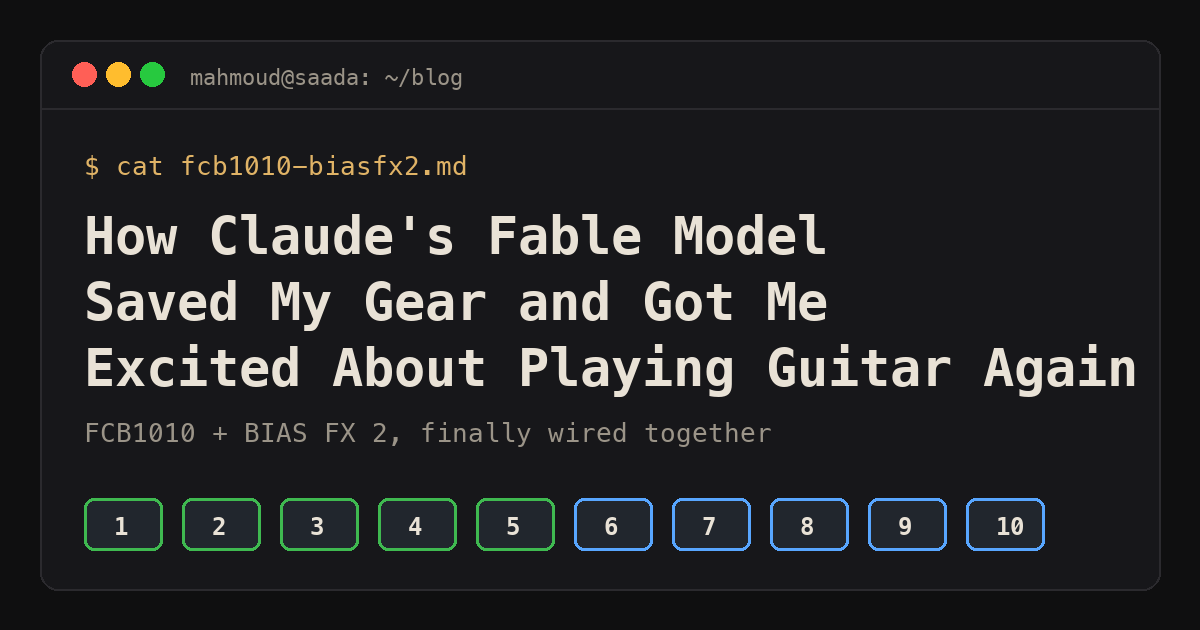
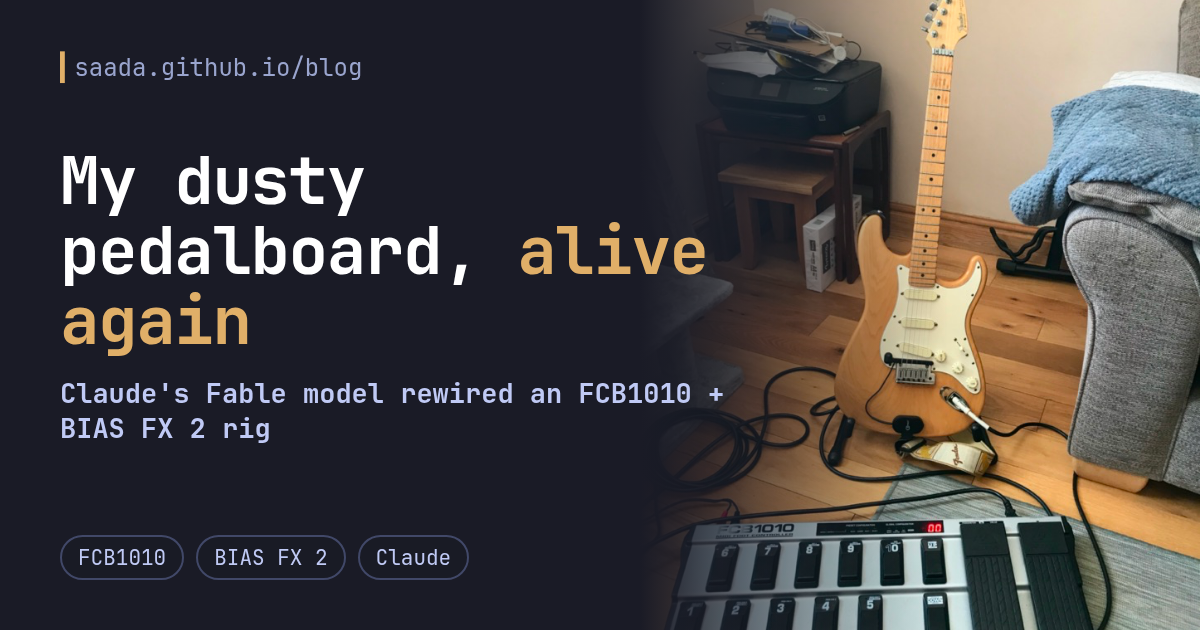
Link cards for every post: one template, bun run cards, enforced in CI
- scripts/og-cards.ts + og-card.html: each blog/<slug>/card.json renders a 1200x630
  og-card.png (bold headline + the post's own photo/screenshot, Tokyo Night) with local
  Chromium, and stamps og:image / twitter:image with ?v=<hash> on the post and its
  sub-pages (lab/), so X refetches instead of serving a cached card.
- Cards: "My dusty pedalboard, alive again" (the Strat over the FCB1010) for the
  first post; "A free guitar rig for Omarchy" (the real GuitarMood board, RHYTHM lit)
  for part two.
- `bun run cards:check` runs before the build in CI: every post needs card.json, a
  current 1200x630 card and the full og/twitter tag set, or the deploy stops.
- README: how to add a card for a new post.

Claude-Session: https://claude.ai/code/session_012TKPMMo4XzZnfbupbKYXAR

diff --git a/scripts/og-cards.ts b/scripts/og-cards.ts
@@ -1,0 +1,135 @@
+// Link cards (og:image / twitter:image) for every post under blog/.
+//
+//   bun run cards         render blog/<slug>/images/og-card.png from blog/<slug>/card.json
+//                         (needs a local Chromium) and stamp ?v=<hash> into the post's meta
+//   bun run cards:check   CI: every post has a card.json, a 1200x630 card, the full set of
+//                         og/twitter tags, and meta that points at the current card
+//
+// card.json:
+//   { "headline": "GuitarMood: a free guitar rig for <em>Omarchy</em>",
+//     "kicker": "FCB1010 · TONE3000 · Qtractor", "tags": ["Omarchy", "Open source"],
+//     "image": "images/guitarmood/full.jpg", "focus": "20% 30%",
+//     "accent": "#7aa2f7", "imageWidth": 640, "headlinePx": 64, "fade": 55, "brightness": 1 }
+
+import { createHash } from "node:crypto";
+import { existsSync, mkdtempSync, readdirSync, readFileSync, writeFileSync } from "node:fs";
+import { tmpdir } from "node:os";
+import { join, resolve } from "node:path";
+import { spawnSync } from "node:child_process";
+
+const ROOT = resolve(import.meta.dir ?? join(import.meta.dirname, ""), "..");
+const BLOG = join(ROOT, "blog");
+const SITE = "https://saada.github.io";
+const W = 1200, H = 630;
+
+type Card = {
+  headline: string; kicker?: string; tags?: string[]; image: string;
+  focus?: string; accent?: string; imageWidth?: number; headlinePx?: number;
+  fade?: number; brightness?: number;  // fade: % of the picture that blends into the text side
+};
+
+const REQUIRED = [
+  "og:title", "og:description", "og:image", "og:image:width", "og:image:height", "og:image:alt",
+  "twitter:card", "twitter:title", "twitter:description", "twitter:image", "twitter:image:alt",
+];
+
+const posts = () => readdirSync(BLOG, { withFileTypes: true })
+  .filter((d) => d.isDirectory() && existsSync(join(BLOG, d.name, "index.html")))
+  .map((d) => d.name);
+
+const escape = (s: string) => s.replace(/&/g, "&amp;").replace(/</g, "&lt;").replace(/>/g, "&gt;");
+// Headlines may use <em> for the accent colour; nothing else is let through.
+const headline = (s: string) => escape(s).replace(/&lt;(\/?)em&gt;/g, "<$1em>");
+
+function pngSize(file: string): [number, number] {
+  const b = readFileSync(file);
+  if (b.toString("ascii", 1, 4) !== "PNG") return [0, 0];
+  return [b.readUInt32BE(16), b.readUInt32BE(20)];
+}
+
+const hash = (file: string) => createHash("sha256").update(readFileSync(file)).digest("hex").slice(0, 10);
+const meta = (html: string, key: string) =>
+  html.match(new RegExp(`<meta[^>]+(?:name|property)="${key.replace(/:/g, ":")}"[^>]*content="([^"]*)"`))?.[1];
+
+function render(slug: string) {
+  const dir = join(BLOG, slug);
+  const card: Card = JSON.parse(readFileSync(join(dir, "card.json"), "utf8"));
+  const imageWidth = card.imageWidth ?? 620;
+  const page = readFileSync(join(ROOT, "scripts/og-card.html"), "utf8")
+    .replaceAll("{{ACCENT}}", card.accent ?? "#7aa2f7")
+    .replaceAll("{{IMAGE}}", "file://" + join(dir, card.image))
+    .replaceAll("{{FOCUS}}", card.focus ?? "center")
+    .replaceAll("{{FADE}}", String(card.fade ?? 55))
+    .replaceAll("{{BRIGHTNESS}}", String(card.brightness ?? 1))
+    .replaceAll("{{IMAGE_WIDTH}}", String(imageWidth))
+    // A long fade leaves room for text over the picture; a short one needs its own column.
+    .replaceAll("{{TEXT_WIDTH}}", String(W - imageWidth + ((card.fade ?? 55) >= 40 ? 140 : 0)))
+    .replaceAll("{{HEADLINE_PX}}", String(card.headlinePx ?? 64))
+    .replaceAll("{{HEADLINE}}", headline(card.headline))
+    .replaceAll("{{KICKER}}", escape(card.kicker ?? ""))
+    .replaceAll("{{TAGS}}", (card.tags ?? []).map((t) => `<span>${escape(t)}</span>`).join(""));
+  const tmp = mkdtempSync(join(tmpdir(), "og-card-"));
+  writeFileSync(join(tmp, "card.html"), page);
+  const out = join(dir, "images/og-card.png");
+  const chromium = process.env.CHROMIUM ?? "chromium";
+  const r = spawnSync(chromium, ["--headless", "--disable-gpu", "--hide-scrollbars", "--force-device-scale-factor=1",
+    "--allow-file-access-from-files", `--window-size=${W},${H}`, `--screenshot=${out}`, "file://" + join(tmp, "card.html")],
+    { encoding: "utf8" });
+  if (r.status !== 0 || pngSize(out)[0] !== W) throw new Error(`${slug}: chromium failed\n${r.stderr}`);
+  stamp(slug);
+  console.log(`${slug}: images/og-card.png (${hash(out)})`);
+}
+
+/** The post's page plus any sub-pages (e.g. blog/<slug>/lab/) that share its card. */
+function pages(slug: string): string[] {
+  const dir = join(BLOG, slug);
+  const out = [join(dir, "index.html")];
+  for (const d of readdirSync(dir, { withFileTypes: true }))
+    if (d.isDirectory() && existsSync(join(dir, d.name, "index.html"))) out.push(join(dir, d.name, "index.html"));
+  return out;
+}
+
+/** Point og:image / twitter:image at the current card, with ?v=<hash> so X refetches it. */
+function stamp(slug: string) {
+  const url = `${SITE}/blog/${slug}/images/og-card.png?v=${hash(join(BLOG, slug, "images/og-card.png"))}`;
+  for (const file of pages(slug)) {
+    let html = readFileSync(file, "utf8");
+    for (const key of ["og:image", "twitter:image"]) {
+      const re = new RegExp(`(<meta[^>]+(?:name|property)="${key}"[^>]*content=")[^"]*(")`);
+      if (!re.test(html)) throw new Error(`${file}: no ${key} meta tag`);
+      html = html.replace(re, `$1${url}$2`);
+    }
+    writeFileSync(file, html);
+  }
+}
+
+function check(): number {
+  let bad = 0;
+  const fail = (slug: string, msg: string) => { console.error(`✗ ${slug}: ${msg}`); bad++; };
+  for (const slug of posts()) {
+    const dir = join(BLOG, slug);
+    if (!existsSync(join(dir, "card.json"))) fail(slug, "no card.json (see scripts/og-cards.ts)");
+    const png = join(dir, "images/og-card.png");
+    if (!existsSync(png)) { fail(slug, "no images/og-card.png: run `bun run cards`"); continue; }
+    const [w, h] = pngSize(png);
+    if (w !== W || h !== H) fail(slug, `og-card.png is ${w}x${h}, want ${W}x${H}`);
+    const want = `?v=${hash(png)}`;
+    for (const file of pages(slug)) {
+      const page = file.slice(BLOG.length + 1, -"/index.html".length) || slug;
+      const html = readFileSync(file, "utf8");
+      for (const key of REQUIRED) if (!meta(html, key)) fail(page, `missing <meta ${key}>`);
+      if (meta(html, "twitter:card") !== "summary_large_image") fail(page, "twitter:card must be summary_large_image");
+      for (const key of ["og:image", "twitter:image"])
+        if (!meta(html, key)?.endsWith(want)) fail(page, `${key} doesn't point at the current card: run \`bun run cards\``);
+    }
+    if (bad === 0) console.log(`✓ ${slug}`);
+  }
+  return bad;
+}
+
+if (process.argv.includes("--check")) {
+  process.exit(check() ? 1 : 0);
+} else {
+  const only = process.argv.slice(2).filter((a) => !a.startsWith("-"));
+  for (const slug of only.length ? only : posts().filter((s) => existsSync(join(BLOG, s, "card.json")))) render(slug);
+}

diff --git a/scripts/og-card.html b/scripts/og-card.html
@@ -1,0 +1,48 @@
+<!doctype html>
+<html>
+<head>
+<meta charset="utf-8">
+<style>
+  /* One link card for every post: 1200x630, readable as a phone-sized preview on X. */
+  :root { --bg: #1a1b26; --fg: #c0caf5; --muted: #9aa5ce; --line: #414868; --accent: {{ACCENT}}; }
+  * { margin: 0; box-sizing: border-box; }
+  html, body { width: 1200px; height: 630px; overflow: hidden; background: var(--bg); }
+  body { font-family: "JetBrainsMono Nerd Font", "JetBrains Mono", "DejaVu Sans Mono", monospace; }
+  .pic {
+    position: absolute; top: 0; right: 0; bottom: 0; width: {{IMAGE_WIDTH}}px;
+    background: url("{{IMAGE}}") {{FOCUS}} / cover no-repeat;
+    filter: brightness({{BRIGHTNESS}});
+  }
+  .pic::after {  /* fade the picture into the text side */
+    content: ""; position: absolute; inset: 0;
+    background: linear-gradient(90deg, var(--bg) 0%, rgba(26, 27, 38, 0.6) calc({{FADE}}% * 0.4), rgba(26, 27, 38, 0) {{FADE}}%);
+  }
+  .text {
+    position: absolute; top: 0; left: 0; bottom: 0; width: {{TEXT_WIDTH}}px;
+    padding: 52px 24px 50px 60px; display: flex; flex-direction: column;
+  }
+  .site { font-size: 24px; color: var(--muted); }
+  .site b { color: var(--accent); }
+  h1 {
+    margin-top: auto; font-size: {{HEADLINE_PX}}px; line-height: 1.06; font-weight: 800;
+    color: #ffffff; letter-spacing: -1.5px;
+  }
+  h1 em { font-style: normal; color: var(--accent); }
+  .kicker { margin-top: 20px; font-size: 27px; line-height: 1.3; color: var(--fg); font-weight: 600; }
+  .tags { margin-top: auto; padding-top: 26px; display: flex; gap: 12px; flex-wrap: wrap; }
+  .tags span {
+    font-size: 21px; padding: 7px 16px; border: 2px solid var(--line); border-radius: 999px;
+    color: var(--fg); background: rgba(26, 27, 38, 0.85);
+  }
+</style>
+</head>
+<body>
+  <div class="pic"></div>
+  <div class="text">
+    <div class="site"><b>▍</b>saada.github.io/blog</div>
+    <h1>{{HEADLINE}}</h1>
+    <div class="kicker">{{KICKER}}</div>
+    <div class="tags">{{TAGS}}</div>
+  </div>
+</body>
+</html>

diff --git a/blog/tone3000-linux-rig/index.html b/blog/tone3000-linux-rig/index.html
@@ -15,7 +15,7 @@
 <meta property="og:description" content="Part two: my FCB1010 now drives a free, open-source guitar rig on Omarchy. Seven eras of Iron Maiden, and GuitarMood, an app that is the pedalboard: open it to play, close it to stop.">
 <meta property="og:url" content="https://saada.github.io/blog/tone3000-linux-rig/">
 <meta property="og:locale" content="en_US">
-<meta property="og:image" content="https://saada.github.io/blog/tone3000-linux-rig/images/og-card.png">
+<meta property="og:image" content="https://saada.github.io/blog/tone3000-linux-rig/images/og-card.png?v=008c1c9fc7">
 <meta property="og:image:width" content="1200">
 <meta property="og:image:height" content="630">
 <meta property="og:image:alt" content="GuitarMood, a free guitar rig app for Omarchy: the FCB1010 pedalboard live on screen, bank 3, RHYTHM lit">
@@ -31,7 +31,7 @@
 <meta name="twitter:creator" content="@saadazzz">
 <meta name="twitter:title" content="From Wine to GuitarMood: A Free, Native Linux Guitar Rig Anyone Can Run">
 <meta name="twitter:description" content="Part two: my FCB1010 now drives a free, open-source guitar rig on Omarchy. Seven eras of Iron Maiden, and GuitarMood, an app that is the pedalboard: open it to play, close it to stop.">
-<meta name="twitter:image" content="https://saada.github.io/blog/tone3000-linux-rig/images/og-card.png">
+<meta name="twitter:image" content="https://saada.github.io/blog/tone3000-linux-rig/images/og-card.png?v=008c1c9fc7">
 <meta name="twitter:image:alt" content="GuitarMood, a free guitar rig app for Omarchy: the FCB1010 pedalboard live on screen, bank 3, RHYTHM lit">
 <script type="application/ld+json">
 {

diff --git a/blog/tone3000-linux-rig/lab/index.html b/blog/tone3000-linux-rig/lab/index.html
@@ -15,7 +15,7 @@
 <meta property="og:description" content="Every experiment, chart and preset behind From Wine to GuitarMood: latency and xrun runs, silent IRs, gain staging, 36 researched presets, seven Maiden eras, the harmony build and five tuners.">
 <meta property="og:url" content="https://saada.github.io/blog/tone3000-linux-rig/lab/">
 <meta property="og:locale" content="en_US">
-<meta property="og:image" content="https://saada.github.io/blog/tone3000-linux-rig/images/og-card.png">
+<meta property="og:image" content="https://saada.github.io/blog/tone3000-linux-rig/images/og-card.png?v=008c1c9fc7">
 <meta property="og:image:width" content="1200">
 <meta property="og:image:height" content="630">
 <meta property="og:image:alt" content="GuitarMood: a free, Linux-native guitar rig app for Omarchy, driven by an FCB1010">
@@ -31,7 +31,7 @@
 <meta name="twitter:creator" content="@saadazzz">
 <meta name="twitter:title" content="Lab Notes: From Wine to GuitarMood">
 <meta name="twitter:description" content="Every experiment, chart and preset behind From Wine to GuitarMood: latency and xrun runs, silent IRs, gain staging, 36 researched presets, seven Maiden eras, the harmony build and five tuners.">
-<meta name="twitter:image" content="https://saada.github.io/blog/tone3000-linux-rig/images/og-card.png">
+<meta name="twitter:image" content="https://saada.github.io/blog/tone3000-linux-rig/images/og-card.png?v=008c1c9fc7">
 <meta name="twitter:image:alt" content="GuitarMood: a free, Linux-native guitar rig app for Omarchy, driven by an FCB1010">
 <script type="application/ld+json">
 {

diff --git a/blog/fcb1010-biasfx2/index.html b/blog/fcb1010-biasfx2/index.html
@@ -15,7 +15,7 @@
 <meta property="og:description" content="The MIDI pedalboard that collected dust for years finally gave up last weekend. I've been galloping through Iron Maiden ever since.">
 <meta property="og:url" content="https://saada.github.io/blog/fcb1010-biasfx2/">
 <meta property="og:locale" content="en_US">
-<meta property="og:image" content="https://saada.github.io/blog/fcb1010-biasfx2/images/og-card.png">
+<meta property="og:image" content="https://saada.github.io/blog/fcb1010-biasfx2/images/og-card.png?v=53ff418540">
 <meta property="og:image:width" content="1200">
 <meta property="og:image:height" content="630">
 <meta property="og:image:alt" content="Automating a Behringer FCB1010 and BIAS FX 2 guitar rig with code">
@@ -30,7 +30,7 @@
 <meta name="twitter:creator" content="@saadazzz">
 <meta name="twitter:title" content="How Claude's Fable Model Saved My Gear and Got Me Excited About Playing Guitar Again">
 <meta name="twitter:description" content="The MIDI pedalboard that collected dust for years finally gave up last weekend. I've been galloping through Iron Maiden ever since.">
-<meta name="twitter:image" content="https://saada.github.io/blog/fcb1010-biasfx2/images/og-card.png">
+<meta name="twitter:image" content="https://saada.github.io/blog/fcb1010-biasfx2/images/og-card.png?v=53ff418540">
 <meta name="twitter:image:alt" content="Automating a Behringer FCB1010 and BIAS FX 2 guitar rig with code">
 <script type="application/ld+json">
 {

diff --git a/README.md b/README.md
@@ -4,9 +4,29 @@ My personal website for [saada.dev](saada.dev)
 
 ```sh
 # local dev
-yarn dev
+bun run dev
 # prod build
-yarn build
+bun run build
 ```
 
 Deployment is done using GH actions.
+
+## Link cards
+
+Every post in `blog/<slug>/` gets a 1200x630 link card for X, LinkedIn and friends. X shows only
+the picture, so the card carries the headline itself.
+
+1. Add `blog/<slug>/card.json` (a short headline; `<em>` marks the accent word):
+
+   ```json
+   { "headline": "A free guitar rig for <em>Omarchy</em>", "kicker": "GuitarMood: every pedal, live",
+     "tags": ["Omarchy", "Open source"], "image": "images/card-hero.jpg", "focus": "0% 50%",
+     "imageWidth": 600, "fade": 12, "brightness": 1.25 }
+   ```
+
+   Use `"fade": 55` (the default) for photos and a short fade for screenshots, so the text gets its own column.
+2. The post needs the usual `og:*` and `twitter:*` meta tags (copy them from an existing post).
+3. Run `bun run cards` (needs a local Chromium). It renders `images/og-card.png` and stamps
+   `?v=<hash>` into `og:image` / `twitter:image`, so X fetches the new card instead of a cached one.
+
+CI runs `bun run cards:check` and refuses to deploy a post without a current card.
